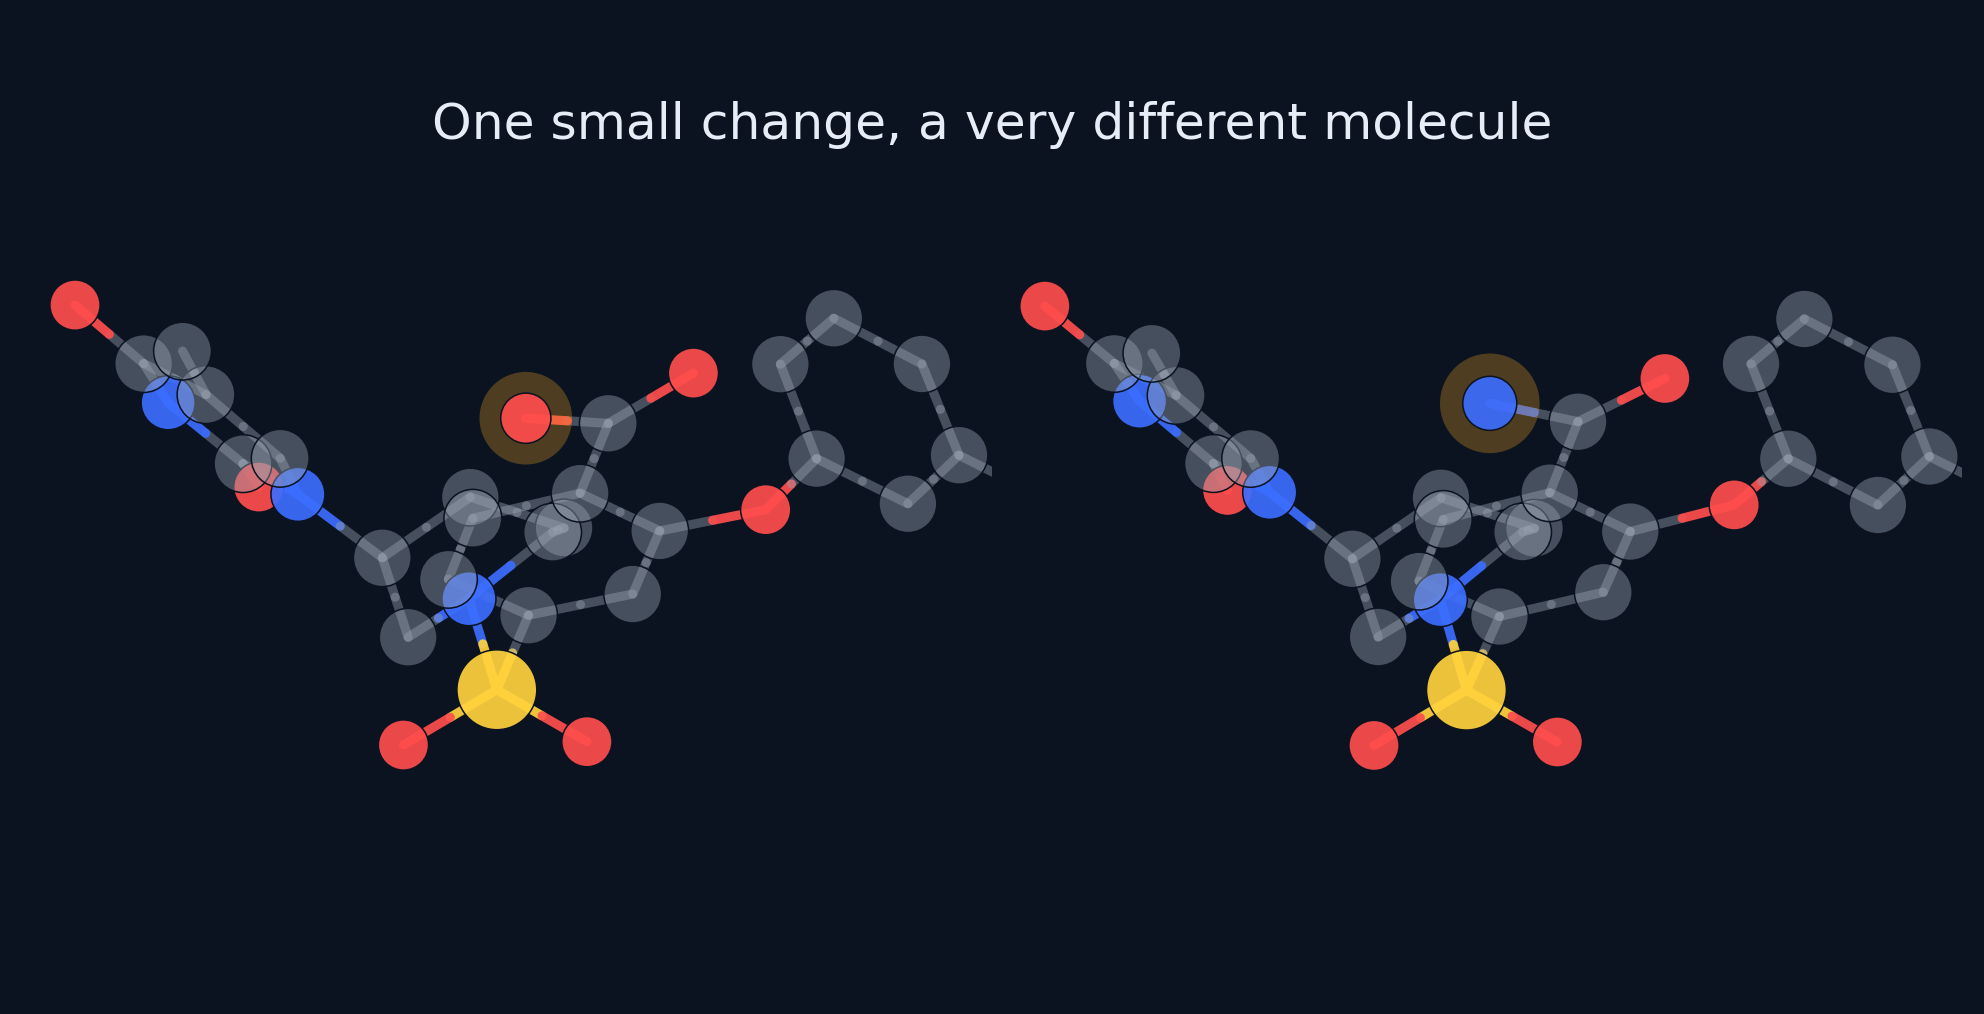
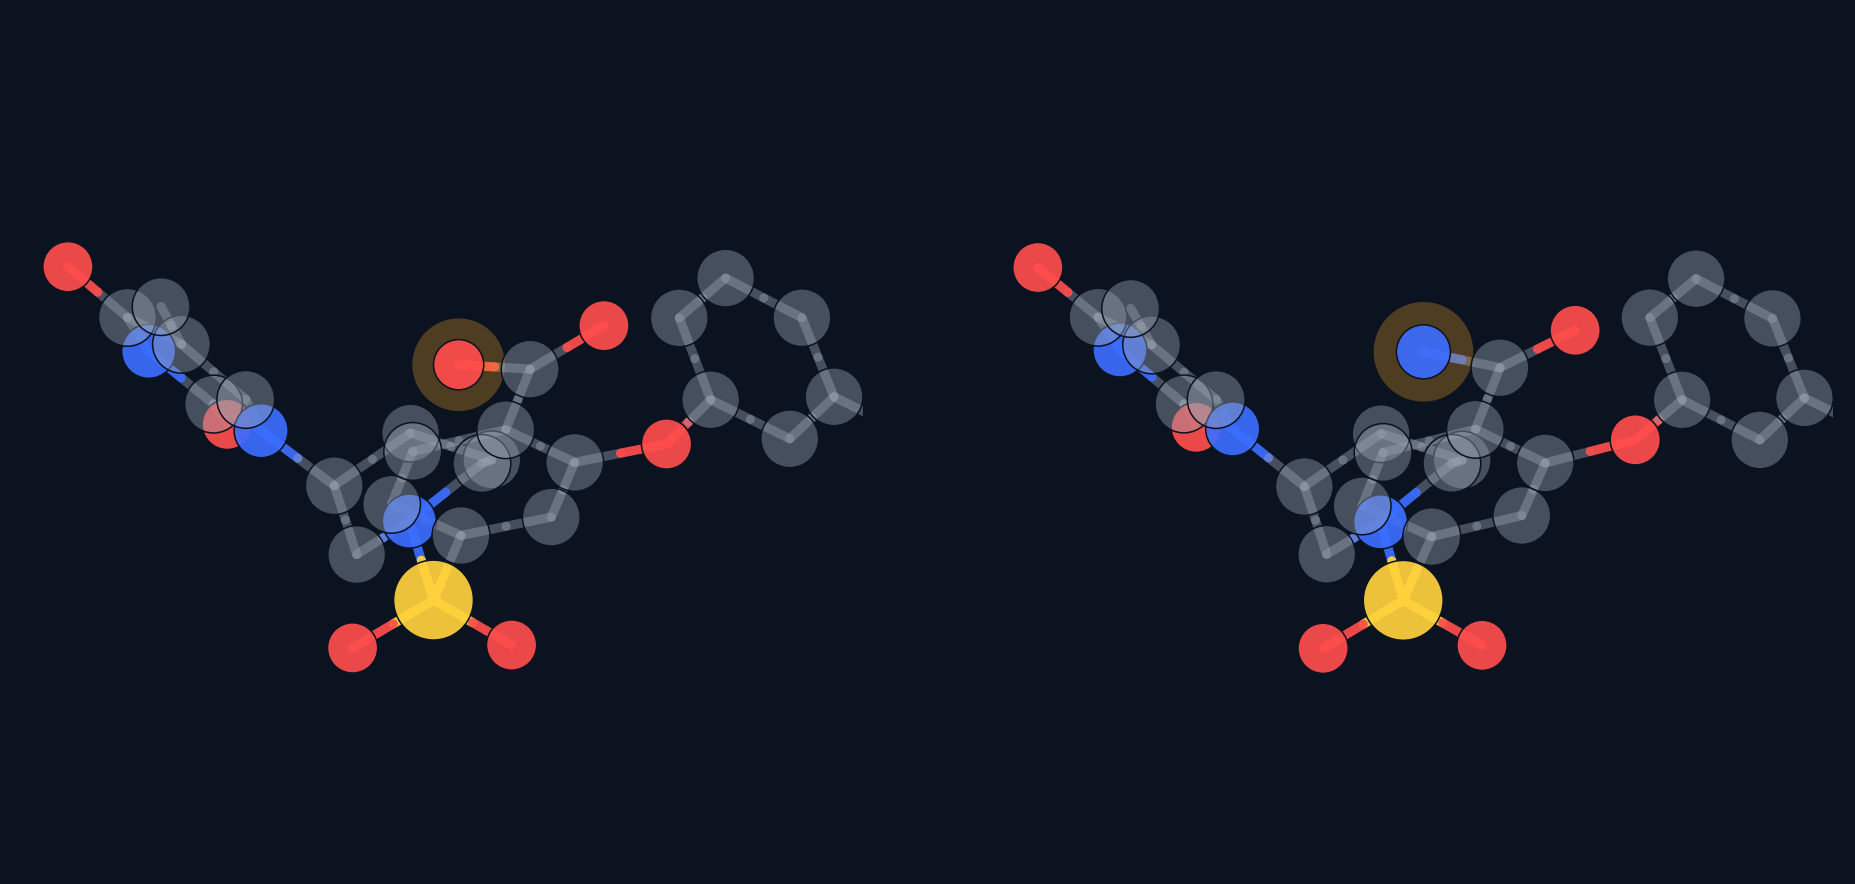
index: move molecular figure title to page-styled HTML heading; restore tight image spacing

Changed region(s): [[0.0307, 0.2749, 0.5224, 0.7636], [0.4916, 0.2749, 0.9833, 0.7636], [0.2151, 0.0916, 0.7989, 0.1527]]

diff --git a/index.html b/index.html
@@ -1101,9 +1101,10 @@
         </div>
 
         <figure style="margin:18px 0 0;padding:18px;background:rgba(22,27,34,0.82);border:1px solid var(--border);border-radius:12px;">
+          <h4 style="margin:0 0 12px;font-size:16.5px;line-height:1.3;letter-spacing:-0.01em;color:var(--text-primary);">Look-alike molecules, very different behavior</h4>
           <img src="assets/molecules/cliff_pair_3d_comparison.png" loading="lazy" alt="Two drug-like molecules rendered in an identical 3D scaffold pose. They differ by a single highlighted functional group: a carboxylic acid on the left and a primary amide on the right." style="width:100%;height:auto;border-radius:8px;display:block;" />
           <figcaption style="margin-top:12px;font-size:12.5px;color:var(--text-secondary);line-height:1.6;">
-            <strong style="color:var(--text-primary);">Why that surprise matters.</strong> The two structures above are almost the same. Change a single group on the right side, an acid (COOH) into an amide (CONH<sub>2</sub>, highlighted), and the molecule flips from water-loving to fat-loving. Drug designers rely on computer models that assume similar molecules behave similarly, so a big jump from a tiny change is exactly where those predictions tend to be wrong. Preprint&nbsp;1 finds <strong style="color:var(--text-primary);">1,398</strong> of these surprise pairs automatically, pointing a scientist to the predictions worth distrusting and the molecules worth testing first. <span style="opacity:0.85;">(Here the lab-measured lipophilicity moves from <code style="font-family:var(--font-mono);color:var(--accent-green);">logD &minus;1.28</code> to <code style="font-family:var(--font-mono);color:var(--accent-purple);">+1.96</code>.)</span>
+            <strong style="color:var(--text-primary);">Why it matters.</strong> The two structures above are almost the same. Change a single group on the right side, an acid (COOH) into an amide (CONH<sub>2</sub>, highlighted), and the molecule flips from water-loving to fat-loving. Drug designers rely on computer models that assume similar molecules behave similarly, so a big jump from a tiny change is exactly where those predictions tend to be wrong. Preprint&nbsp;1 finds <strong style="color:var(--text-primary);">1,398</strong> of these surprise pairs automatically, pointing a scientist to the predictions worth distrusting and the molecules worth testing first. <span style="opacity:0.85;">(Here the lab-measured lipophilicity moves from <code style="font-family:var(--font-mono);color:var(--accent-green);">logD &minus;1.28</code> to <code style="font-family:var(--font-mono);color:var(--accent-purple);">+1.96</code>.)</span>
           </figcaption>
         </figure>
         <figure style="margin:14px 0 0;padding:18px;background:rgba(22,27,34,0.82);border:1px solid var(--border);border-radius:12px;">
